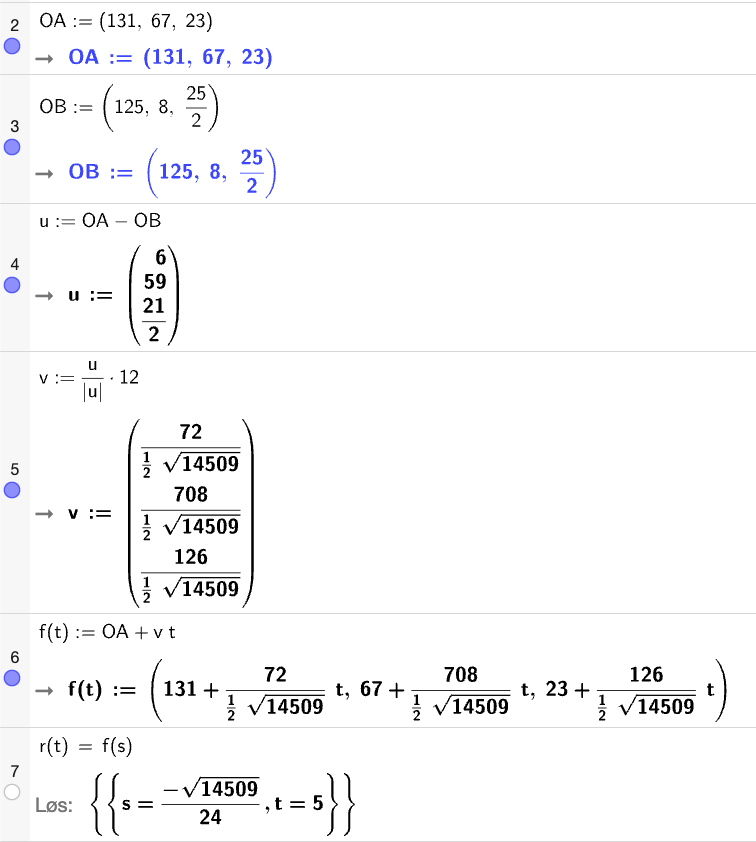
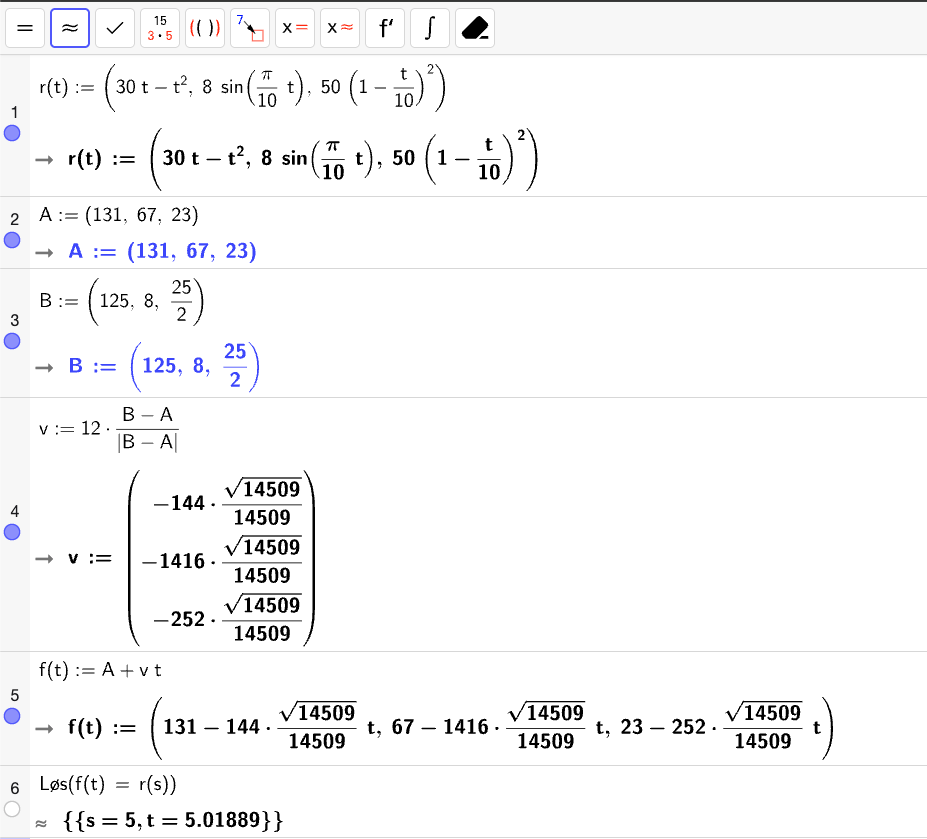
update

diff --git a/book/følger_og_rekker/anvendelser/oppgaver.md b/book/følger_og_rekker/anvendelser/oppgaver.md
@@ -1,1 +1,44 @@
 # Oppgaver: Anvendelser av rekketeori
+
+
+
+:::::::::::::::{exercise} Oppgave X
+Boligsparing for ungdom (BSU) er en spareordning for ungdom mellom 18 og 34 år for å hjelpe dem å komme inn på boligmarkedet. Om ordningen får du vite at
+* Du kan sette inn et samlet innskudd på $27~500$ kr hvert år.
+* I perioden hvor du sparer kan du maksimalt sette inn innskudd på til sammen $300~000$ kr.
+* En typisk årlig rente på en BSU-konto er ca. $6~\%$.
+* Sparebeløpet *må* brukes til boligformål – enten å kjøpe bolig eller nedbetaling av boliglån.
+
+Tenk deg at du begynner å spare i en BSU-konto 1.januar det året du fyller 18 år og at du setter inn det maksimale innskuddet du kan hvert år.
+
+:::::::::::::{part} a
+Sett opp en rekke for hvor stort sparebeløpet ditt blir etter at du har spart i 10 år.
+
+
+:::::::::::::
+
+
+
+:::::::::::::{part} b
+Regn ut hvor stort sparebeløp du har når du er 30 år gammel.
+
+
+:::::::::::::
+
+Tenk deg at du skal kjøpe en bolig til $3~000~000$ kr når du er 30 år gammel. For å ta opp et lån kreves det at du har $10~\%$ av kjøpesummen spart opp. Dette kaller vi for en egenkapital. Resten av kjøpesummen tar du opp som et lån.
+
+:::::::::::::{part} c
+Finn hvor stort lånebeløp du må ta opp.
+
+:::::::::::::
+
+Vi går ut ifra at du skal betale ned lånet over 20 år. I nedbetalingsplanen din har du en fast rente på $5~\%$ på lånet. Hvert år betaler du et fast beløp terminbeløp.
+
+:::::::::::::{part} d
+Finn terminbeløpet du må betale hvert år.
+
+
+:::::::::::::
+
+
+:::::::::::::::

diff --git a/book/følger_og_rekker/geometriske_rekker/teori.md b/book/følger_og_rekker/geometriske_rekker/teori.md
@@ -311,3 +311,94 @@ $$
 
 
 ## Variable kvotienter og konvergensområder
+
+Noen ganger jobber vi med geometriske rekker der kvotienten er en funksjon $k(x)$. 
+
+
+:::::::::::::::{summary} Uendelig geometrisk rekke med variabel kvotient
+En uendelig geometrisk rekke $S(x)$ med startledd $a$ og kvotient $k(x)$ på formen
+
+$$
+S(x) = a + a\cdot k(x) + a \cdot k(x)^2 + a \cdot k(x)^3 + \ldots
+$$
+
+konvergerer hvis og bare hvis
+
+$$
+\abs{k(x)} \lt 1
+$$
+
+De verdiene av $x$ som tilfredsstiller at $\abs{k(x)} \lt 1$ kalles for **konvergensområdet** til rekka.
+:::::::::::::::
+
+
+
+---
+
+
+:::::::::::::::{example} Eksempel 5
+Gitt rekka
+
+$$
+S(x) = 1 + \dfrac{x}{2} + \dfrac{x^2}{4} + \dfrac{x^3}{8} + \ldots
+$$
+
+Bestem konvergensområdet til rekka.
+
+
+
+::::{solution}
+---
+dropdown: 0
+---
+Vi kan se at kvotienten til rekka er
+
+$$
+k(x) = \dfrac{x}{2}
+$$
+
+Konvergensområdet til rekka må tilfredsstille at
+
+$$
+\abs{k(x)} \lt 1 \liff \abs{\dfrac{x}{2}} \lt 1
+$$
+
+Dette betyr at konvergensområdet til rekka er
+
+$$
+\abs{x} \lt 2 \liff -2 \lt x \lt 2
+$$
+
+::::
+
+:::::::::::::::
+
+
+---
+
+Vi tar et litt mer omfattende eksempel der vi må gjøre litt mer analyse for å finne konvergensområdet til rekka.
+
+
+:::::::::::::::{example} Eksempel 6
+En geometrisk rekke er gitt ved
+
+$$
+S(x) = 2 + 4(x - 2)^2 + 8(x - 2)^4 + 16(x - 2)^6 + \ldots
+$$
+
+Bestem konvergensområdet til rekka.
+
+::::{solution}
+---
+dropdown: 0
+---
+
+Vi kan se at kvotienten til rekka er
+
+$$
+k(x) = 2(x - 2)^2
+$$
+
+
+::::
+:::::::::::::::

diff --git a/book/eksamensøving/vår_26/oppgaver.md b/book/eksamensøving/vår_26/oppgaver.md
@@ -1357,7 +1357,7 @@ Vil fuglen treffe flyet?
 
 
 ::::{answer}
-Nei.
+Ja!
 ::::
 
 ::::{solution}
@@ -1388,8 +1388,10 @@ width: 90%
 ---
 :::
 
-Vi ser at ved å løse $\vec{r}(t) = \vec{f}(s)$ får vi forskjellige verdier for $s$ og $t$ som betyr at de ikke møtes. Altså vil ikke fuglen treffe flyet.
+Både fuglen og flyet er i skjæringspunktet mellom kurvene sine omtrent ved $t = 5$ sekunder som betyr at fuglen vil treffe flyet. 
 
+
+> Merk at selv om fuglen er i punktet 0.02 sekunder senere, så vil det i praksis bety at fuglen og flyet treffer hverandre siden det er så liten tidsforskjell. 
 ::::
 
 :::::::::::::

diff --git a/book/følger_og_rekker/aritmetiske_rekker/teori.md b/book/følger_og_rekker/aritmetiske_rekker/teori.md
@@ -1,9 +1,14 @@
 # Aritmetiske rekker
 
-:::{admonition} Læringsmål
+:::{admonition} Relevante kompetansemål
 ---
 class: tip
 ---
-* Kunne finne formelen for det $n$-te leddet i en aritmetisk følge.
-* Kunne finne formelen for summen av de $n$ første leddene i en aritmetisk rekke.
+* utforske egenskaper ved ulike rekker og gjøre rede for praktiske anvendelser av egenskaper ved rekker
 :::
+
+
+
+En **aritmetisk** rekke er en rekke der differansen mellom to påfølgende ledd alltid er den samme.
+
+

diff --git a/book/romgeometri/regneregler/teori.md b/book/romgeometri/regneregler/teori.md
@@ -10,3 +10,10 @@ class: tip
 * Kunne bestemme lengden av en vektor.
 * Kunne regne ut skalarproduktet mellom to vektorer. 
 :::
+
+
+
+
+## Lengden av en vektor
+
+

diff --git a/book/følger_og_rekker/geometriske_rekker/oppgaver.md b/book/følger_og_rekker/geometriske_rekker/oppgaver.md
@@ -115,3 +115,4 @@ Om en geometrisk rekke får du vite at
 Bestem det første leddet i rekka.
 
 :::::::::::::::
+

diff --git a/book/modellering/trigonometriske_modeller/oppgaver.md b/book/modellering/trigonometriske_modeller/oppgaver.md
@@ -1,0 +1,1 @@
+# Oppgaver: Trigonometriske modeller

diff --git a/book/modellering/vektorfunksjoner/oppgaver.md b/book/modellering/vektorfunksjoner/oppgaver.md
@@ -1,0 +1,1 @@
+# Oppgaver: Vektorfunksjoner

diff --git a/book/modellering/trigonometriske_modeller/teori.md b/book/modellering/trigonometriske_modeller/teori.md
@@ -1,0 +1,1 @@
+# Trigonometriske modeller

diff --git a/book/modellering/vektorfunksjoner/teori.md b/book/modellering/vektorfunksjoner/teori.md
@@ -1,0 +1,1 @@
+# Vektorfunksjoner
